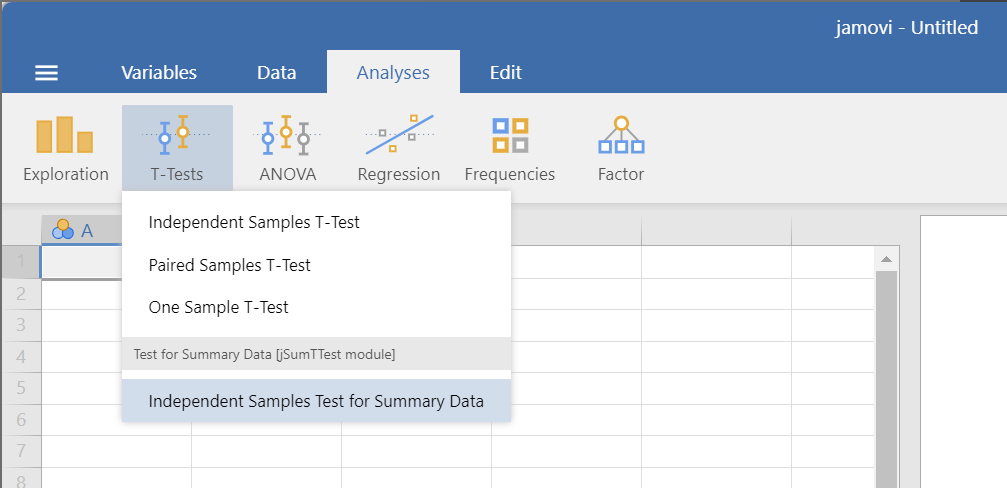
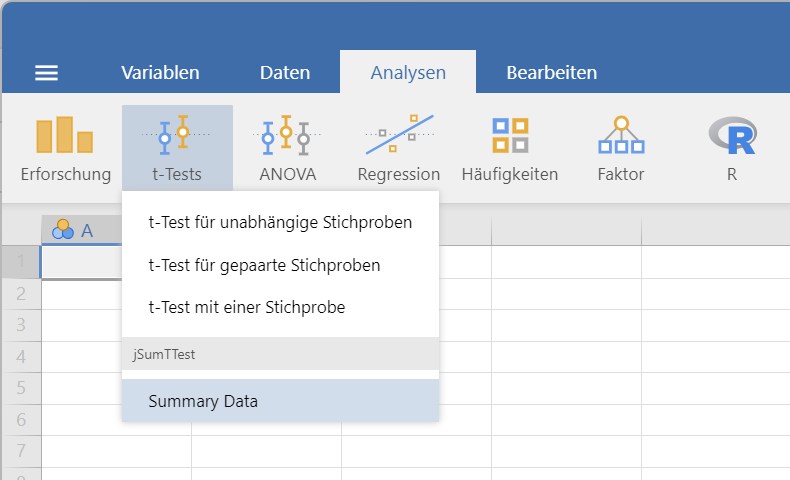
README update to v1.2.0
new (sub)menu name

diff --git a/README.md b/README.md
@@ -44,7 +44,7 @@ Users of psychometric tests can compare an observed group with the normative dat
 
 Currently only available via sideload. Built module for MS-Windows can be found here :file_folder:: [DOWNLOAD](built_module/Win/jSumTTest_1.2.0.jmo)
 
-After installation you find the function named "Independent Samples Test for Summary Data" in tab "T-Tests" under the new sub-menu "Test for Summary Data [jSumTTest module]".
+After installation you find the function named "Summary Data" in tab "T-Tests" under the new sub-menu "jSumTTest".
 
 ![Screenshot of the menu-path](readme_pics/readme_menu.png)
 
